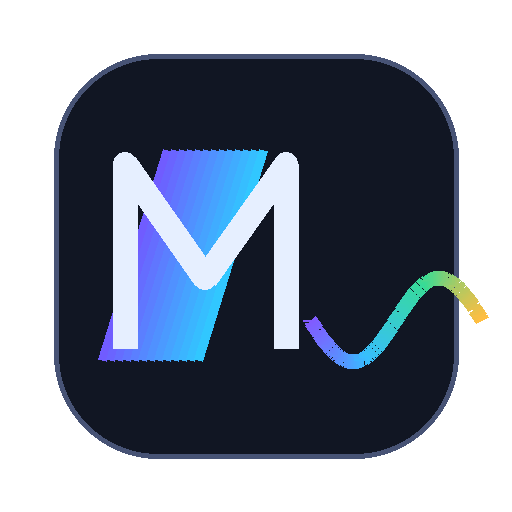
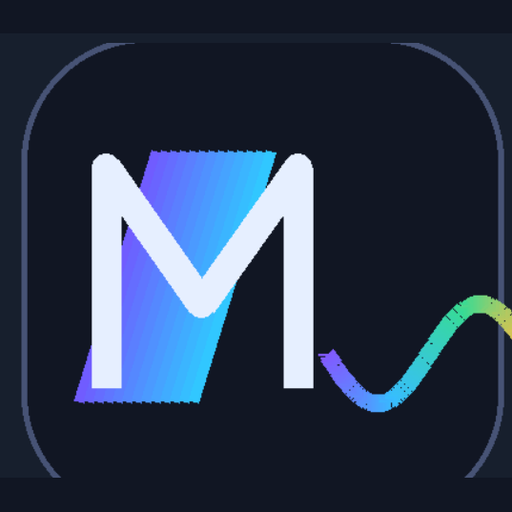
0.4.1: icone M no executavel e no instalador

diff --git a/patches/source/qt/MasterRGBVersion.h b/patches/source/qt/MasterRGBVersion.h
@@ -10,8 +10,8 @@
 #ifndef MASTERRGB_VERSION_H
 #define MASTERRGB_VERSION_H
 
-#define MASTERRGB_VERSION       "0.4.0"
-#define MASTERRGB_VERSION_RC    "0.4.0.0"
+#define MASTERRGB_VERSION       "0.4.1"
+#define MASTERRGB_VERSION_RC    "0.4.1.0"
 #define MASTERRGB_BASE          "OpenRGB 1.0rc2wr0"
 
 #endif

diff --git a/docs/BACKLOG.md b/docs/BACKLOG.md
@@ -5,11 +5,10 @@ concreta quando a versão for aberta.
 
 ## 0.4.1 — ajustes rápidos
 
-- [ ] **Ícone da área de trabalho**: o `.exe` instalado já tem o ícone correto (comparado
-  pixel a pixel com `assets/MasterRGB-icon.ico`). Os atalhos antigos
-  `MasterRGB.exe - Atalho.lnk` e `MasterRGB2.exe - Atalho.lnk` apontam para builds
-  anteriores e por isso mostram o logo do OpenRGB. Decidir se serão repontados para
-  `C:\Program Files\MasterRGB\MasterRGB.exe` ou removidos pelo usuário.
+- [x] **Ícone da área de trabalho**: o `.exe` agora carrega o "M" em `assets/MasterRGB-icon.ico`
+  e `assets/MasterRGB-icon.png` (0.4.1). Os atalhos antigos `MasterRGB.exe - Atalho.lnk` e
+  `MasterRGB2.exe - Atalho.lnk` ainda apontam para builds anteriores; decidir se serão
+  repontados para `C:\Program Files\MasterRGB\MasterRGB.exe` ou removidos pelo usuário.
 - [ ] **Remover a aba Informações**: os dados que interessam (versão do app, versão do
   Qt, versão do Windows, link do projeto) passam para a aba **Apoiar**. Avaliar o que
   fazer com a lista lateral de dispositivos e com as subabas de cada controlador.

diff --git a/README-PTBR.md b/README-PTBR.md
@@ -1,4 +1,4 @@
-# MasterRGB 0.3.0 — Build Kit
+# MasterRGB 0.4.1 - Build Kit
 
 MasterRGB é uma adaptação do OpenRGB (GPL-2.0) para Windows, com identidade própria,
 páginas em português e instalador nativo. Este pacote contém o código de integração e
@@ -48,7 +48,7 @@ Set-ExecutionPolicy -Scope Process Bypass
 ```
 
 O script restaura os arquivos originais de interface, aplica a integração MasterRGB,
-compila e gera `dist\MasterRGB-0.4.0-Portable.zip`. Para gerar o instalador, compile
+compila e gera `dist\MasterRGB-0.4.1-Portable.zip`. Para gerar o instalador, compile
 `installer\MasterRGB.iss` com o Inno Setup 6.
 
 O caminho de build fica em `%USERPROFILE%\Documents\MasterRGB-Build`. Os perfis são

diff --git a/CHANGELOG.md b/CHANGELOG.md
@@ -1,3 +1,12 @@
+# MasterRGB 0.4.1
+
+## O que mudou nesta versão
+
+- **Ícone novo**: o "M" com a onda colorida substitui o ícone herdado da base. Vale para
+  o executável, atalho da área de trabalho, barra de tarefas, Alt+Tab, instalador e
+  desinstalador, com versão 0.4.1.0 nos detalhes do arquivo.
+- Nenhuma mudança funcional em relação à 0.4.0.
+
 # MasterRGB 0.4.0
 
 ## O que mudou nesta versão
